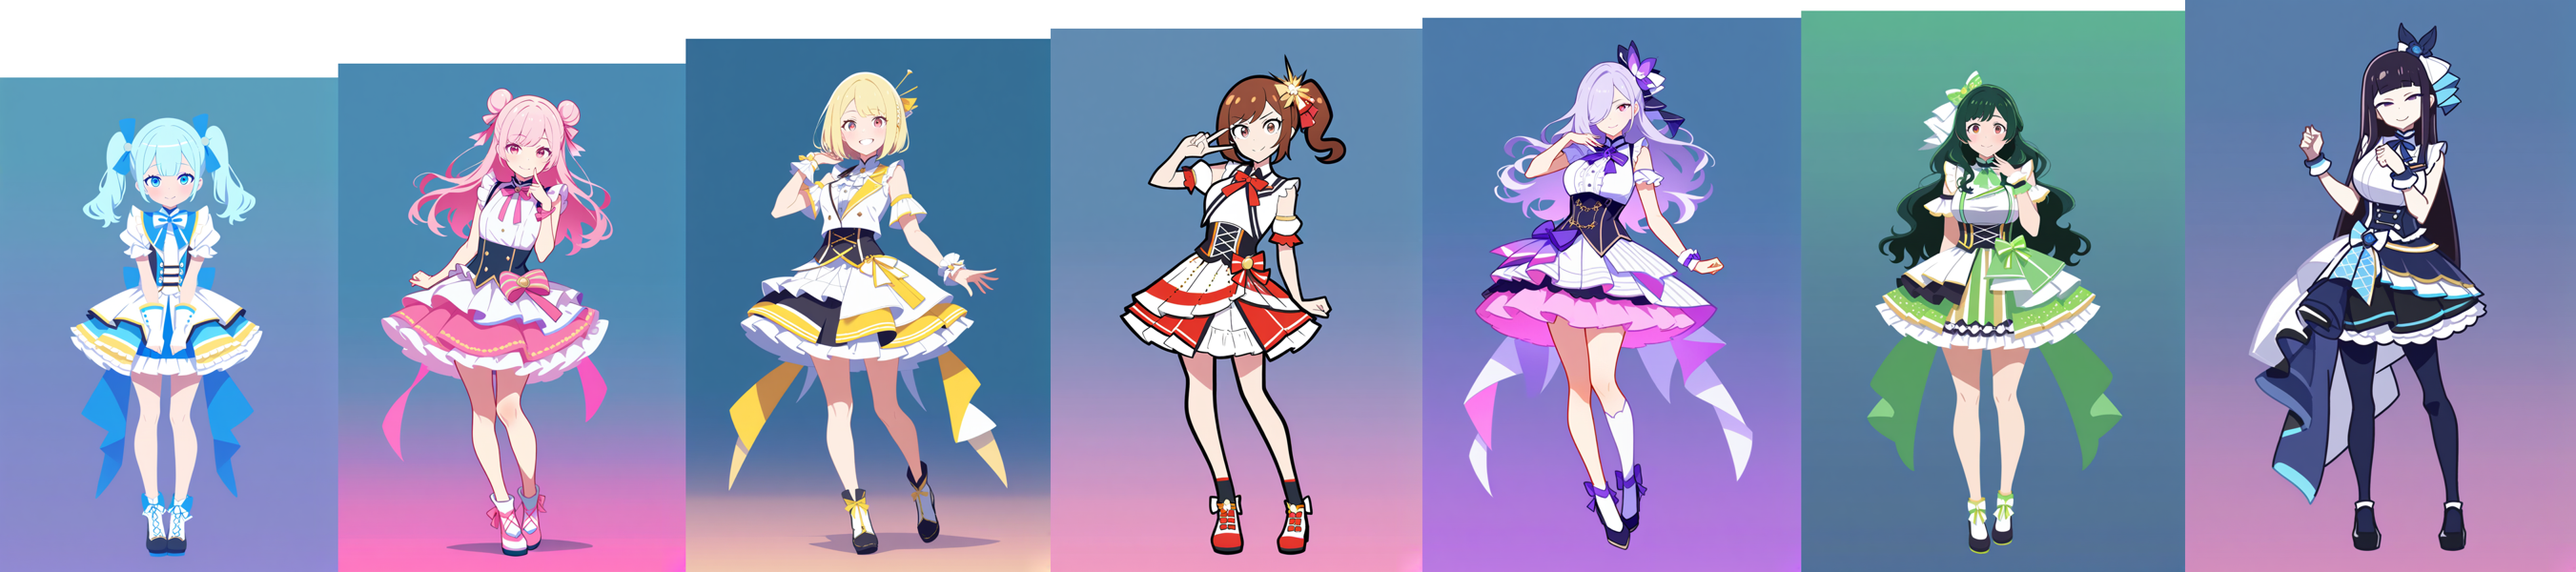
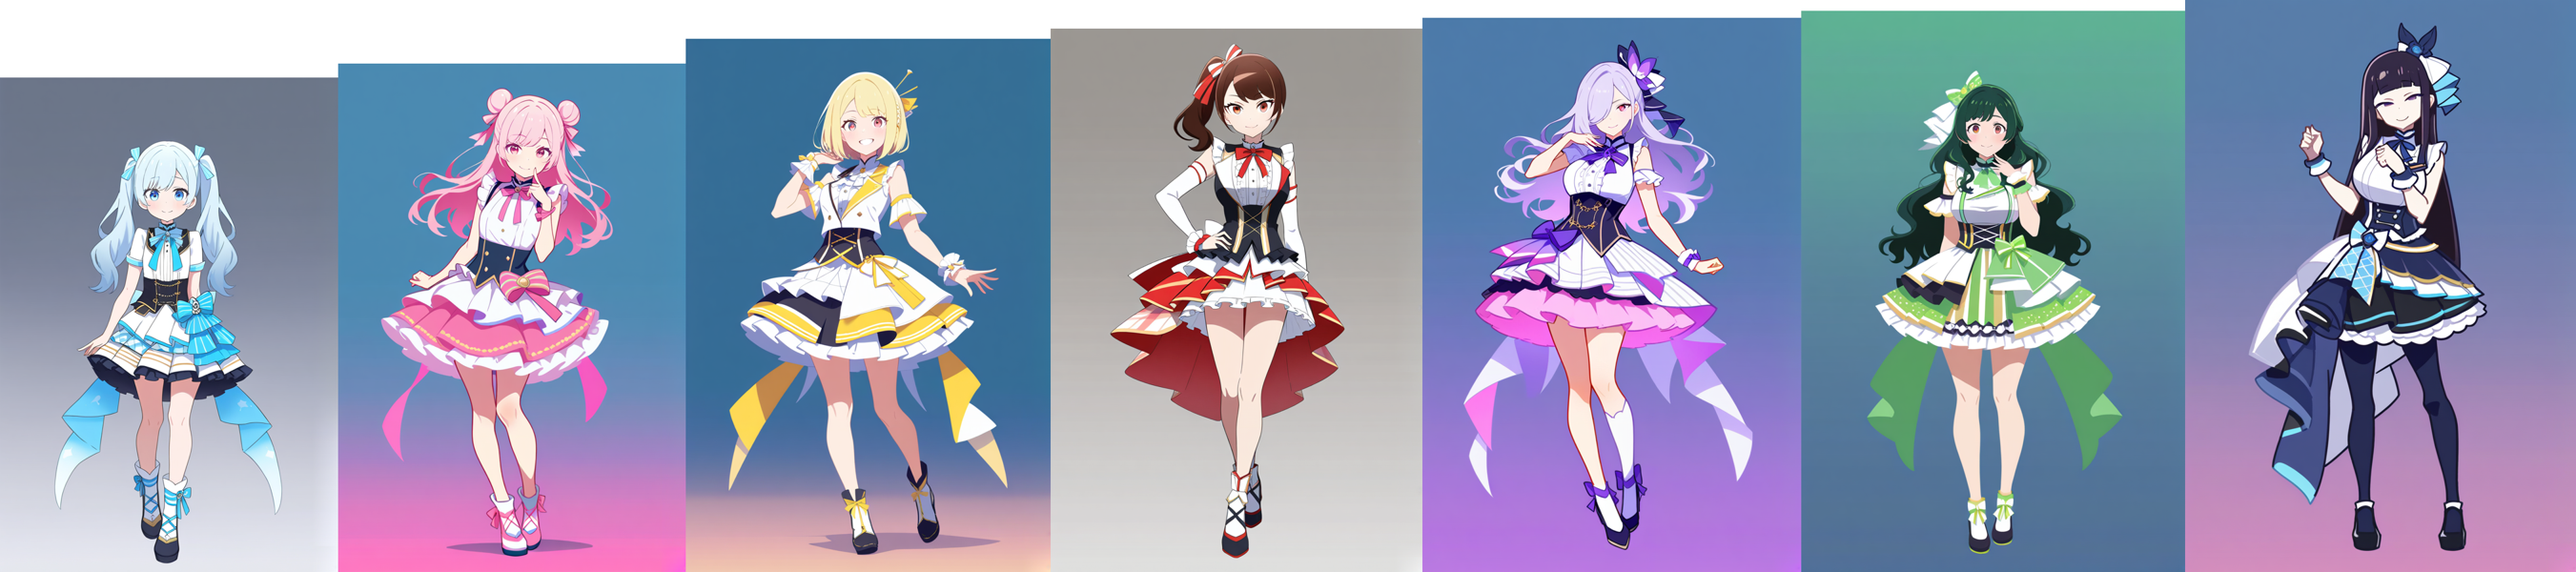
AI idol: redraw red and light-blue members to match style; update lineup
Claude-Session: https://claude.ai/code/session_01NDbBRrerzQWzbGrLCvpGBJ

Changed region(s): [[0.4041, 0.03, 0.5596, 1.0], [0.0, 0.12, 0.1554, 1.0]]

diff --git a/ai-idol/gen_members.py b/ai-idol/gen_members.py
@@ -18,11 +18,11 @@ NEG = ("nsfw, cleavage, revealing clothes, lowres, bad anatomy, bad hands, missi
        "text, error, cropped, worst quality, low quality, low score, bad score, average score, signature, watermark, "
        "username, blurry, retro artstyle, 1990s (style), 2000s (style), sketch")
 MEMBERS = {
-    "red":    ("red",        "adult woman, reddish brown hair, medium hair, side ponytail, large eyes, slightly tsurime, energetic, peace sign"),
+    "red":    ("red",        "adult woman, reddish brown hair, medium hair, side ponytail, large eyes, slightly tsurime, energetic smile, hand on hip, soft shading"),
     "blue":   ("navy blue",  "tall adult woman, very dark navy blue hair, long straight hair, narrow eyes, cool expression, mature"),
     "yellow": ("yellow",     "adult woman, blonde hair, short bob, hairpin, round eyes, big grin"),
     "green":  ("green",      "adult woman, very dark green hair, long wavy hair, tareme, gentle smile, mature, onee-san"),
-    "cyan":   ("light blue", "petite adult woman, baby face, light blue hair, twintails, large eyes, shy smile"),
+    "cyan":   ("light blue", "petite young adult woman, 19 years old, cute face, light blue hair, twintails, large eyes, shy smile, slender"),
     "pink":   ("pink",       "petite adult woman, baby face, pink hair, double bun, half updo, wink"),
     "purple": ("purple",     "adult woman, lavender silver hair, long hair, hair over one eye, mysterious smile, mature, elegant"),
 }

diff --git a/ai-idol/REPORT.md b/ai-idol/REPORT.md
@@ -34,3 +34,9 @@
    - Happy Horse 1.1：180
    - Basicプランは月1,200クレジットなので、10秒の動画を月に約9本作れる計算。金額は https://sunra.ai/pricing で確認（金額は未確認）。
    - 「Motion」系は、手本のダンス動画の動きをキャラに移す方式。手本には、権利がある自前の動画（自分で撮ったものなど）が必要。公式MVの流用は不可。
+
+## 追記（同日）：デザイン修正
+- **方針：** 実写寄りのAIアイドル（参考画像で示されたタイプ）はNG。アニメ調で統一する。
+- **朱音（赤）：** `design/red_s3.png` に差し替え。線の太さと塗りが他の6人と揃った。
+- **しずく（水色）：** `design/cyan_s3.png` に差し替え。少しだけ大人寄りにした（ツインテール・小柄は維持）。
+- **集合画：** `design/lineup_by_height.png` を更新。身長はまだ近似で、正確に揃えるには人物の切り抜きが必要。
